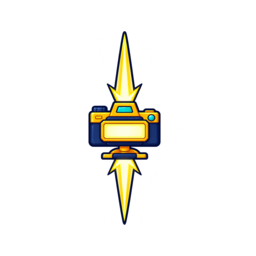
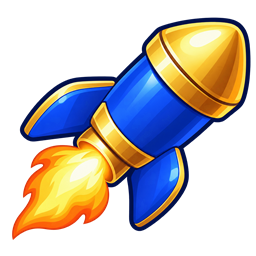
art: adopt approved square bonus sprites and direction cues (#320)

diff --git a/tests/Match3BonusReadability.test.ts b/tests/Match3BonusReadability.test.ts
@@ -1,0 +1,42 @@
+import { createHash } from 'node:crypto';
+import { readFileSync } from 'node:fs';
+import { describe, expect, it } from 'vitest';
+import { levels, specialAssets } from '../src/data/levels';
+import { Match3Game } from '../src/engine/Match3Game';
+import { match3BoardCellsMarkup, match3HelpMarkup } from '../src/features/match3/Match3Presentation';
+import { decodeRgbaPng } from './helpers/pngRgba';
+
+const approved = {
[5 lines of base64/hex data omitted]
+} as const;
+
+describe('approved square Match-3 bonus art', () => {
+  for (const [id, hash] of Object.entries(approved)) {
+    it(`retains the approved ${id} PNG and transparent 256px canvas`, () => {
+      const bytes = readFileSync(new URL(`../public/assets/match3/specials/${id}.png`, import.meta.url));
+      expect(createHash('sha256').update(bytes).digest('hex')).toBe(hash);
+      const png = decodeRgbaPng(bytes);
+      expect([png.width, png.height]).toEqual([256, 256]);
+      expect(png.pixels[3]).toBe(0);
+      expect(png.pixels.some((value, index) => index % 4 === 3 && value > 0)).toBe(true);
+    });
+  }
+
+  it('uses the same PNG and separate directional cue on the board and in Help', () => {
+    const level = levels[0];
+    const game = new Match3Game(level, level.seed);
+    const ids = Object.keys(approved) as (keyof typeof approved)[];
+    const board = game.board.map((cell, index) => index < ids.length ? { ...cell, special: ids[index] } : cell);
+    const t = (key: string) => key;
+    for (const markup of [match3BoardCellsMarkup({ level, board, selectedCell: null, hintedCells: new Set(), t }), match3HelpMarkup(t)]) {
+      for (const id of ids) expect(markup).toContain(`src="${specialAssets[id]}"`);
+      expect(markup.match(/class="special-direction-marker"/g)).toHaveLength(2);
+      expect(markup).toContain('data-special-direction="row" aria-hidden="true">↔');
+      expect(markup).toContain('data-special-direction="column" aria-hidden="true">↕');
+    }
+  });
+});

diff --git a/e2e/tests/match3.pw.ts b/e2e/tests/match3.pw.ts
@@ -105,7 +105,7 @@ test.describe('Match-3 through Campaign and Level Lab', () => {
     health.assertClean();
   });
 
-  test('Help stays centered inside the phone viewport without moving the board', async ({ page }) => {
+  test('Help stays centered inside the phone viewport without moving the board', async ({ page }, testInfo) => {
     const health = observeBrowserHealth(page);
     await openDeterministicLab(page);
 
@@ -138,6 +138,17 @@ test.describe('Match-3 through Campaign and Level Lab', () => {
 
     expect(geometry.centerDelta).toBeLessThanOrEqual(1);
     expect(geometry.insideViewport).toBe(true);
+
+    await expect(help.locator('.special-direction-marker')).toHaveCount(2);
+    await expect(help.locator('[data-special="flash-row"] [data-special-direction="row"]')).toHaveText('↔');
+    await expect(help.locator('[data-special="flash-column"] [data-special-direction="column"]')).toHaveText('↕');
+    expect(await help.locator('.special-direction-marker').evaluateAll((markers) => markers.every((marker) => {
+      const rect = marker.getBoundingClientRect();
+      const parent = marker.parentElement?.getBoundingClientRect();
+      return parent && rect.left >= parent.left && rect.right <= parent.right
+        && rect.top >= parent.top && rect.bottom <= parent.bottom;
+    }))).toBe(true);
+    await page.screenshot({ path: testInfo.outputPath('bonus-help.png') });
 
     const boardAfter = await board.boundingBox();
     if (!boardAfter) throw new Error('Missing Match-3 board while Help is open');

diff --git a/tests/Match3SpecialNarrativeAssets.test.ts b/tests/Match3SpecialNarrativeAssets.test.ts
@@ -4,9 +4,9 @@ import { readFile } from 'node:fs/promises';
 import { specialAssets, specialFallbackAssets } from '../src/data/levels';
 
 const expectedProductionDigests = {
[8 lines of base64/hex data omitted]
 } as const;

diff --git a/src/style.css b/src/style.css
@@ -1362,6 +1362,30 @@ img { display: block; }
   filter: drop-shadow(0 1px 2px rgba(24, 20, 38, .72));
 }
 
+/* Approved square bonus silhouettes must stay inside their own cell. */
+.special.flash-row, .special.flash-column, .special.evidence {
+  inset: 0;
+  width: 100%;
+  height: 100%;
+}
+.special-direction-marker {
+  position: absolute;
+  z-index: 3;
+  left: 1px;
+  bottom: 1px;
+  display: grid;
+  place-items: center;
+  width: 15px;
+  height: 15px;
+  border: 1px solid #fff0bd;
+  border-radius: 3px;
+  background: #10243deb;
+  color: #fff0bd;
+  font-size: 13px;
+  line-height: 1;
+  pointer-events: none;
+}
+
 /* ANM-026A Level Lab */
 .menu-qa-row { display: grid; grid-template-columns: repeat(3, minmax(0, 1fr)); gap: 7px; }
 .menu-qa-row button { min-width: 0; padding-inline: 7px; font-size: 11px; }

diff --git a/src/features/match3/Match3Presentation.ts b/src/features/match3/Match3Presentation.ts
@@ -99,7 +99,8 @@ function match3SpecialImageMarkup(
   className: string,
   alt: string,
 ): string {
-  return `<img class="${className}" src="${specialAssets[special]}" data-asset-fallback-src="${specialFallbackAssets[special]}" alt="${escapeHtml(alt)}" draggable="false">`;
+  const direction = special === 'flash-row' ? '↔' : special === 'flash-column' ? '↕' : null;
+  return `<img class="${className}" src="${specialAssets[special]}" data-asset-fallback-src="${specialFallbackAssets[special]}" alt="${escapeHtml(alt)}" draggable="false">${direction ? `<span class="special-direction-marker" data-special-direction="${special === 'flash-row' ? 'row' : 'column'}" aria-hidden="true">${direction}</span>` : ''}`;
 }
 
 export function match3ContextAttrs(level: LevelDefinition): string {

diff --git a/src/match3Help.css b/src/match3Help.css
@@ -110,6 +110,7 @@
   background: #fff8e6a8;
 }
 .match-help-special-visual {
+  position: relative;
   display: grid;
   width: 48px;
   height: 48px;

diff --git a/docs/reviews/BONUS_READABILITY_2026-10-01.md b/docs/reviews/BONUS_READABILITY_2026-10-01.md
@@ -1,0 +1,48 @@
+# G4a-BONUS-READABILITY — три бонуса Match-3
+
+Статус: изображения явно утверждены пользователем и интегрированы локально
+2026-10-01. Публикация запрошена; merge/deploy и финальная телефонная проверка
+ещё не подтверждены. G4a/KI-005 остаются открыты.
+База: merged Рина #319, `4223b6eec0007f531451feb5aad73eeaf8036815`.
+
+## Решение и границы
+
+Пользователь принял evidence v1; две камеры со стрелками v1 отклонил.
+Разряды v2 заменены после обсуждения: предметы должны нормально заполнять
+квадрат, а не вытягиваться по направлению эффекта. Итоговая пара v3 —
+фонарик flash-row и компактная сигнальная ракета flash-column — явно принята;
+пользователь запросил замену в игре, затем отдельную публикацию на GitHub.
+
+Заменены только `public/assets/match3/specials/flash-row.png`,
+`flash-column.png`, `evidence.png`: v3/v3/v1 соответственно, 256×256 RGBA.
+Lead/insight, SVG fallback, IDs, названия, правила создания/активации неизменны.
+Один renderer обслуживает поле и Help; добавлены отдельные неинтерактивные
+aria-hidden метки ↔/↕. Три новых значка используют 100% клетки вместо 128%,
+без поворота и вытягивания. Масштаб остальных двух бонусов не меняется.
+
+## Воспроизводимость и проверка
+
+Навык imagegen: built-in image_gen, не ComfyUI. Evidence — reference edit;
+два предмета v3 — новые изображения без references. Пропорции и alpha
+сохранены при механическом экспорте до 256×256.
+Принятые hashes, prompts, preview и mobile WebKit screenshot:
+`docs/art/bonus-readability-2026-10-01/`.
+Локальные masters/экспорт и исходные runtime backups:
+`output/art-review/bonuses-v1/`, `output/art-review/bonuses-v3/`;
+рабочая копия `C:/git/UPDS-art-work/bonuses/readability-v3/`.
+Эти локальные authoring-каталоги не являются обязательной runtime-зависимостью.
+
+`tests/Match3BonusReadability.test.ts`: 6 проверок hashes всех пяти PNG,
+прозрачности, размера, сохранения lead/insight и общих board/Help markers.
+Существующие hash baselines трёх заменённых PNG обновлены по явной приёмке.
+Local gate: 152 files / 758 tests, lint, TypeScript и production build passed.
+Browser checks passed: Chromium и mobile WebKit, 4/4 — загрузка всех пяти PNG,
+две метки в границах Help, отсутствие сдвига поля и создание/активация flash-row.
+Mobile WebKit screenshot визуально просмотрен. Это не реальный телефон.
+SVG fallback и все механики проверяются существующими контрактами без изменения правил.
+
+## Перед merge и финальной приёмкой
+
+Дождаться GitHub Quality и Browser Gate. После merge проверить обновлённую
+PWA на телефоне: поле, Help, активации row/column/evidence и читаемость меток.
+Не закрывать G4a/KI-005 только по изображению, генерации или автоматическим тестам.

diff --git a/docs/art/bonus-readability-2026-10-01/PROMPTS-v3.md b/docs/art/bonus-readability-2026-10-01/PROMPTS-v3.md
@@ -1,0 +1,11 @@
+Built-in image_gen. Two new square-composition object sprites, no reference images. Evidence v1 unchanged and approved. These two candidates await approval; no runtime integration. Direction indicators are separate UI elements, not baked into the PNG.
+
+## flash-row
+
+Use case: stylized-concept. Asset type: isolated 2D illustrated match-3 bonus game sprite. Square composition, actual transparent alpha background. Large chunky unmistakable silhouette readable at 32x32 pixels; occupy roughly 80% of both width and height, safe margins, no elongated narrow composition. Dark navy thick contour, royal blue main body, gold and cream highlights, restrained cel shading. Only one object, no camera, no magnifier, no text, no background tile, no frame, no tiny details, no scattered spark particles. Do NOT bake direction arrows into the artwork; those will be separate UI markers.
+Primary request: a compact handheld flashlight viewed at three-quarter angle, tilted diagonally from lower left toward upper right. Short thick royal-blue handle and oversized round gold-rimmed lamp head, clearly a flashlight rather than a camera. A short broad cream-yellow triangular light beam attached to its head fills the upper-right portion, keeping total silhouette approximately square. Strong readable geometry; avoid long thin handle or long light beam.
+
+## flash-column
+
+Use case: stylized-concept. Asset type: isolated 2D illustrated match-3 bonus game sprite. Square composition, actual transparent alpha background. Large chunky unmistakable silhouette readable at 32x32 pixels; occupy roughly 80% of both width and height, safe margins, no elongated narrow composition. Dark navy thick contour, royal blue main body, gold and cream highlights, restrained cel shading. Only one object, no camera, no magnifier, no text, no background tile, no frame, no tiny details, no scattered spark particles. Do NOT bake direction arrows into the artwork; those will be separate UI markers.
+Primary request: a compact chunky signal flare rocket viewed at three-quarter angle, tilted diagonally from lower left toward upper right. Short broad royal-blue cylindrical capsule with rounded gold nose and two very large simple tail fins. A compact bright gold-orange flame burst attached to its tail balances the rocket, making overall silhouette approximately square rather than tall. Recognizably a signal rocket, not a flashlight, no weapon or launcher. Avoid long smoke trails, thin sticks, long vertical orientation or loose spark fragments.

diff --git a/docs/art/bonus-readability-2026-10-01/PROMPTS-v1.md b/docs/art/bonus-readability-2026-10-01/PROMPTS-v1.md
@@ -1,0 +1,34 @@
+# UPDS bonus readability v1 — built-in image_gen
+
+Three separate reference edits. Source images: runtime flash-row.png,
+flash-column.png and evidence.png; genuine transparent background requested.
+No ComfyUI or CLI/API generation used. No runtime replacement yet.
+
+Shared prompt: Edit target: the provided UPDS match-3 bonus icon. Create one
+standalone replacement game sprite on genuine transparent background, square
+canvas. Must read instantly at 32x32 to 48x48 pixels. Crisp early-2000s anime game
+UI illustration: thick dark navy outline, flat rich cobalt-blue and gold-yellow
+fills, restrained cel shading, clear white accents. Large simplified silhouette
+occupies about 85% of canvas, generous safe padding, no faint thin rays, no tiny
+decorations, no words, letters, numbers, scene, backdrop, shadows outside sprite,
+or watermark. Retain detective-camera theme and original palette. This is an
+isolated production icon, not a mockup or contact sheet.
+
+flash-row: Keep one large front-facing blue-and-gold camera centered, with a
+simple solid bright lens. Behind it, a single very thick gold horizontal
+double-headed arrow points LEFT and RIGHT, reaching near both sides of canvas.
+Camera occupies about 60% canvas width and 60% height. Direction must be
+horizontal only, no vertical ray. Remove all tiny buttons and tripod.
+
+flash-column: Keep one large front-facing blue-and-gold camera centered, with a
+simple solid bright lens. Behind it, a single very thick gold vertical
+double-headed arrow points UP and DOWN, reaching near top and bottom of canvas.
+Camera occupies about 60% canvas width and 60% height. Direction must be vertical
+only, no horizontal ray. Remove all tiny buttons and tripod.
+
+evidence: Keep one single large front-facing blue-and-gold camera occupying
+about 85% canvas width and 75% canvas height. One oversized lens with a simple
+white four-point flash shape on a golden center, all outlined dark navy. Remove
+the scattered little spark fragments around camera completely. This icon has
+NO directional arrows, clearly distinguishable from the row and column bonuses.
+Keep the main lens bold and readable, no fine concentric rings.

diff --git a/docs/ROADMAP_RU.md b/docs/ROADMAP_RU.md
@@ -2,6 +2,14 @@
 
 Technical product version: `0.26.0-dev`.
 
+2026-10-01 — `G4a-BONUS-READABILITY`: после merged #319 (`4223b6e`)
+пользователь утвердил evidence v1 и квадратные предметные силуэты v3:
+фонарик flash-row и сигнальную ракету flash-column. Три PNG интегрированы
+локально; направления показаны отдельными метками ↔/↕ на поле и в Help.
+Lead/insight и игровые механики неизменны. Автотесты и игровая проверка
+фиксируются в evidence; финальная телефонная приёмка/G4a ещё не закрыты.
+[Evidence](reviews/BONUS_READABILITY_2026-10-01.md).
+
 2026-10-01 — `G4a-RINA-POSE`: пользователь выбрал следующий срез после
 слияния PR #318 (`5c5a216`). Принятый neutral v2 и четыре исходных выражения
 интегрированы локально в новую Pose A без руки на бедре.
